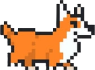
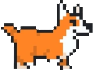
сделал врагов

diff --git a/code/game.py b/code/game.py
@@ -3,6 +3,7 @@ from arcade.gui import UIFlatButton, UIManager
 from character import Player_Potap
 from arcade.camera import Camera2D
 from constants import *
+from enemies import Enemy
 
 
 class FishHunterGame(arcade.View):
@@ -21,6 +22,9 @@ class FishHunterGame(arcade.View):
         self.player = Player_Potap()
         self.all_sprite.append(self.player)
 
+        # Создаем список врагов
+        self.enemies_sprites = arcade.SpriteList()
+
         # Управление
         self.left_pressed = False
         self.right_pressed = False
@@ -29,6 +33,12 @@ class FishHunterGame(arcade.View):
         self.tile_map = arcade.load_tilemap(f"../static/levels/level{self.level}.tmx", scaling=TILE_SCALING)
         self.scene = arcade.Scene.from_tilemap(self.tile_map)
 
+        # создаем врагов
+        for i in self.scene["enemies"]:
+            enemy = Enemy(self.scene["earth"])
+            enemy.position = i.position
+            self.enemies_sprites.append(enemy)
+            self.all_sprite.append(enemy)
         self.score = 0
 
         # Кнопки (будут показаны при смерти)
@@ -114,7 +124,9 @@ class FishHunterGame(arcade.View):
         self.death_buttons.clear()
 
     def restart_game(self, event=None):
-        # Начинаем игру сначало
+        # Начинаем игру сначала
+        self.all_sprite.clear()
+        self.enemies_sprites.clear()
 
         self.score = 0
 
@@ -145,6 +157,12 @@ class FishHunterGame(arcade.View):
         self.level = 1
         self.tile_map = arcade.load_tilemap(f"../static/levels/level{self.level}.tmx", scaling=TILE_SCALING)
         self.scene = arcade.Scene.from_tilemap(self.tile_map)
+
+        for i in self.scene["enemies"]:
+            enemy = Enemy(self.scene["earth"])
+            enemy.position = i.position
+            self.enemies_sprites.append(enemy)
+            self.all_sprite.append(enemy)
 
     def return_to_menu(self, event=None):
         # Возвращаемся в главное меню
@@ -179,9 +197,16 @@ class FishHunterGame(arcade.View):
             self.moving_to_next_level()
 
     def moving_to_next_level(self):
+        self.all_sprite.clear()
+        self.enemies_sprites.clear()
         self.level += 1
         self.tile_map = arcade.load_tilemap(f"../static/levels/level{self.level}.tmx", scaling=TILE_SCALING)
         self.scene = arcade.Scene.from_tilemap(self.tile_map)
+        for i in self.scene["enemies"]:
+            enemy = Enemy(self.scene["earth"])
+            enemy.position = i.position
+            self.enemies_sprites.append(enemy)
+            self.all_sprite.append(enemy)
         self.player.die()
         self.player = Player_Potap()
         self.all_sprite.append(self.player)
@@ -246,9 +271,14 @@ class FishHunterGame(arcade.View):
         if self.player.alive:
             if not self.cheating:
                 self.collision_with_enemies(self.player, self.scene["spikes"])
+                self.collision_with_enemies(self.player, self.enemies_sprites)
             for i in range(1, 9):
                 self.collision_with_items(self.player, f"fish{i}")
             self.collision_with_exit(self.player)
+
+            for i in self.enemies_sprites:
+                i.update_movement()
+                i.update_animation(delta_time)
 
             # Обновляем движение
             if self.left_pressed and not self.right_pressed:

diff --git a/code/enemies.py b/code/enemies.py
@@ -1,0 +1,54 @@
+import arcade
+
+class Enemy(arcade.Sprite):
+    def __init__(self, platform_list):
+        super().__init__()
+
+        self.platform_list = platform_list
+        self.scale = 1
+        self.speed = 5
+
+        self.walk_textures = []
+        for i in range(8):
+            texture = arcade.load_texture(f"../static/images/enemy/dog_{i}.png")
+            self.walk_textures.append(texture)
+
+        self.x_frame_animation = 0
+        self.texture_change_time = 0
+        self.texture_change_delay = 0.1
+
+        self.face_direction = 1
+
+    def update_animation(self, delta_time: float = 1 / 60):
+        self.texture_change_time += delta_time
+        if self.texture_change_time >= self.texture_change_delay:
+            self.texture_change_time = 0
+            self.x_frame_animation += 1
+            if self.x_frame_animation >= len(self.walk_textures):
+                self.x_frame_animation = 0
+
+            if self.face_direction == 1:
+                self.texture = self.walk_textures[self.x_frame_animation]
+            else:
+                self.texture = self.walk_textures[self.x_frame_animation].flip_horizontally()
+
+    def update_movement(self):
+        # Проверка. есть ли земля впереди
+        check_x = self.center_x + (self.width / 2 + 10) * self.face_direction
+        check_y = self.center_y - self.height / 2 - 20
+
+        sensor = arcade.SpriteSolidColor(10, 10, center_x=check_x, check_y=check_y, color=(255, 0, 0, 0))
+
+
+        # Если впереди нет платформы - разворачиваемся
+        collisions = arcade.check_for_collision_with_list(sensor, self.platform_list)
+        if not collisions:
+            self.face_direction *= -1
+
+        # Также проверяем столкновение со стеной
+        wall_collisions = arcade.check_for_collision_with_list(self, self.platform_list)
+        if wall_collisions:
+            self.face_direction *= -1
+
+        # Перемещение
+        self.center_x += self.speed * self.face_direction

diff --git a/code/character.py b/code/character.py
@@ -8,7 +8,7 @@ class Player_Potap(arcade.Sprite):
         self.alive = True  # флаг жизни
 
         # Основные характеристики
-        self.scale = 1.4
+        self.scale = 1
         self.speed = 5
 
         # Физические параметры
